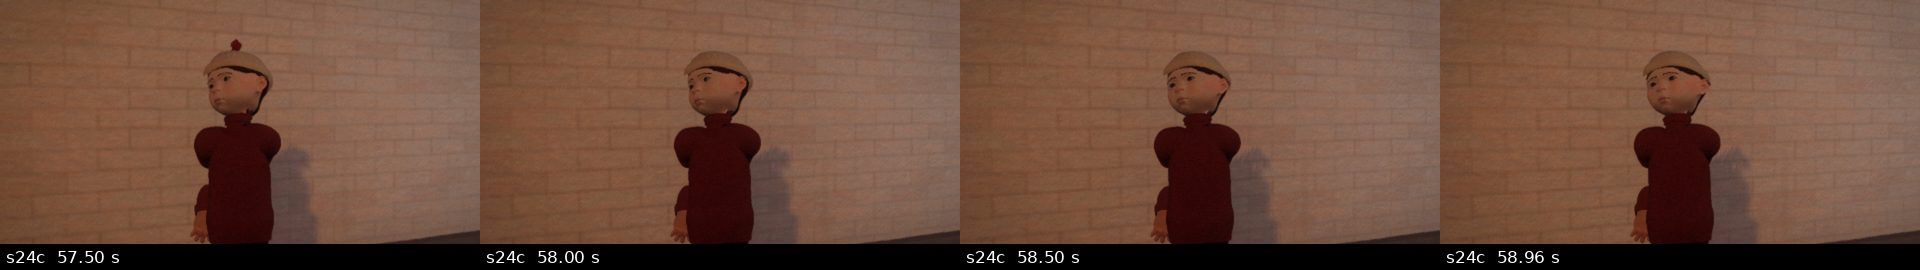
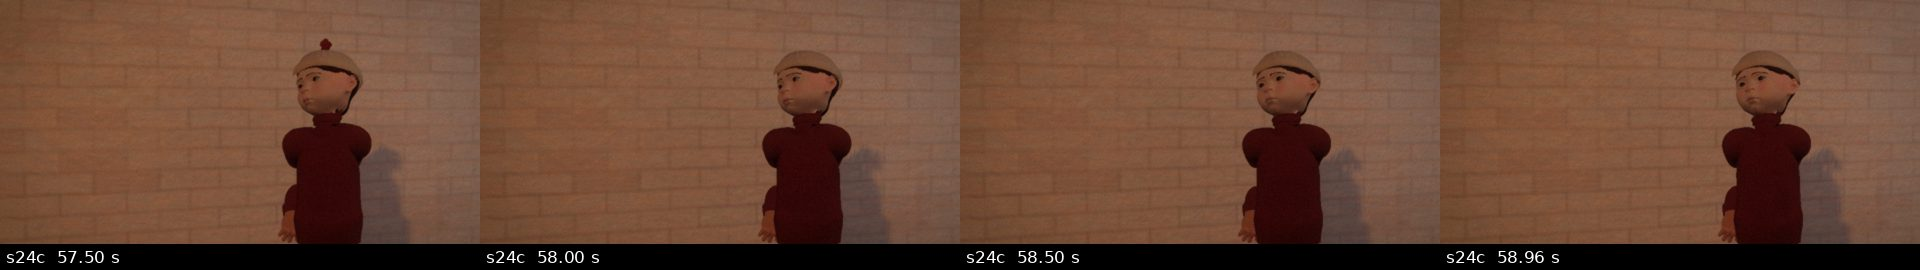
W1-v2: báo cáo BAO-CAO-W1-V2, continuity s24c máy
Claude-Session: https://claude.ai/code/session_013vfSagBSEu3FHp4au7vwuU

diff --git a/reports/m2/cong6/w1/BAO-CAO-W1-V2.md b/reports/m2/cong6/w1/BAO-CAO-W1-V2.md
@@ -1,0 +1,60 @@
+# BÁO CÁO W1-v2 — Cổng 6, sửa sau kiểm vòng 1 (layout v20), phương án A
+
+Phiên xưởng W1 · nhánh `cong6-w1-v2` (từ `387a7fa` của P) · 30/09/2026 · căn cứ: lệnh W1-v2 của P (chủ dự án duyệt, AUTHORSHIP "Cổng 6 — diễn hoạt") + bổ sung C3 lượt Cas.
+Đã sửa: `design/cong5/layout/shots_w1.js`; **mã dùng chung theo lệnh (Đ1, Đ2):** `design/cong3/v2/char3d/cast3d.js` (thêm `ch.gripAt`), `design/cong5/layout/common.js` (`watchInHand` tuỳ chọn `grip`), `design/cong5/layout/shots_w2.js` (CHỈ đổi thân hàm `gripAt` thành lời gọi `ch.gripAt`); `shots/layout/continuity/canh-3.md`, `canh-4.md`; `reports/m2/cong6/w1/sua-v2/`.
+Không sửa: `bible/`, `checks/` (không đọc mã), tài sản khoá, `sets*.js`, `order_w1.js`. Không chạy kiểm mù / luật. Thời lượng shot và tổng phim (140,5 s) không đổi.
+
+## 1. Bảng việc a–k
+| Mục | Trạng thái | Làm gì · số đo |
+|---|---|---|
+| **a** s05 bàn tay vỡ hình 0–2,5 s; "cánh tay lạ mép phải" | **Đã sửa (gốc: tư thế + góc máy)** | Gốc: sheet `warm_hands_ladder` xoè ngón 0,9 / gập 0 — với tay MPFB, lòng tay nhìn NGHIÊNG từ máy cũ (lệch ~49°) thành các ngón nhọn tách rời "vuốt/sừng"; vệt đỏ loang là bóng khung lồng đèn trên lòng tay nhìn nghiêng. Không phải IK (s05 không IK tới 2,6 s) hay trọng số da. Sửa: lòng tay khép nhẹ (xoè 0,3, gập 0,3 — `S05.hands`, cũng dùng cho s24) + máy mới (mục h) thấy MU bàn tay phải trước thân cột; tay trái khuất sau cột/lồng → hết "tay lạ" ở mép phải. |
+| **b** s06 xuyên mặt đồng hồ; ngón gõ kính (CHẶN L3) | **Đã sửa** | Máy insert KHOÁ ở tư thế 2,3 s khi bà cất đồng hồ (v1 bám đồng hồ → đầu/tai lọt giữa máy và mặt số ở 2,5 s). Gõ kính: đồng hồ đưa vào giữa ngực (vai phải [−40, 0, 10], khuỷu −104 — trước: tay trái hụt 10 cm, đo IK) rồi lòng tay trái IK tới cạnh đồng hồ phía vai trái, ngón duỗi; đỉnh chạm **đúng 16,80 / 17,20 s** (gauss 0,06 s): lòng tay cách mặt kính 1,2 cm, đầu ngón chạm vòng số 12 (probe khung 16,79 và 17,21 s: thấy ngón + móng chạm mặt kính; 17,00 s ngón nhấc khỏi khung. Bảng `s06_sau` lấy mỗi 0,5 s nên không trùng đỉnh gõ). |
+| **c** s13 xuyên cột; s15 thang nhảy + xuống từng bậc; s03 tốc độ leo | **Đã sửa** | s13: cúi nhìn đá lát với cổ 18°/quay −14° + thân 10° (v1 cúi thẳng 30° → mũ/mặt lẫn vào thân cột), tay trái giữ nhánh thanh móc cả shot (v1 chuyển về thân cột → cẳng tay quét qua cột). s15: bắt đầu giữa thang (u 0,55), xuống **3 bậc từng nhịp** 0–0,9 s (v1: 1,55 m trong 0,8 s đều); chạm đất lùi một bước 0,9–1,3 s; **nhấc thang 0,95–1,3 s** nội suy vị trí/hướng từ chỗ tựa cột lên vai, tay phải nắm thanh (v1: nhảy 1 khung 1070 → 1071). s03: leo **2 bậc từng nhịp**, 0,37 m / 0,55 s (v1: 0,70 m / 0,55 s). |
+| **d** L1: máy s22 cùng phía s21 | **Đã sửa** | s21 máy ở phía −x trước mặt bà; s22 v1 lệch +45° (phía +x). Nay lệch **−62°** (phía −x), lia trái 4° đẩy thân cột ra mép phải. Góc mặt so với trục máy đo mỗi 6 khung: **54,2–59,1°** (> 30°). |
+| **e** L2 mẩu tay góc dưới-trái s22 | **Đã sửa** | Ở máy mới tay phải trên van nằm ngoài khung (bảng `s22_sau`, 7 khung: không còn mẩu tay). |
+| **f** s24 nhịp đếm ba đọc được (CHẶN L4) | **Đã sửa** | Máy s24 nhìn trước mặt bà → áp tay tới kính là chuyển động DỌC trục máy (v1 ≤ 3 px; thử đẩy tay tới trước: vẫn không thấy). Nay mỗi nhịp hai lòng tay **dang ra hai bên (vai dạng ±24°) rồi khép áp vào hai mặt kính** — chuyển động ngang khung. Đo chiếu tâm lòng tay lên khung 960×540 (mỗi khung): tay trái dịch **30,9 px** ngang / 7,4 px dọc, tay phải **21,2 px** / 7,9 px. |
+| **g** s24c dựa tường đọc được, hết "ma-nơ-canh" + C3 Cas | **Đã sửa** | Lưng + vai tựa tường (cách mặt tường 0,16 m, ngả 6°), đầu ngả tựa (cổ −9°, nghiêng 5°), gối phải co, **hai lòng tay áp tường sau hông** (IK, −3 mm tới mặt tường), dồn chân trái, thở, **chớp 57,62 / 58,62 s**, mắt dẫn trước đầu khi quay về Ida; máy lia 9° cho khoảng trống phía cậu nhìn. Cùng tư thế ở s23, s24. **C3 Cas s24c** (tư thế MỚI, `export_c3 --who cas`, khung 1380/1392/1404): cánh tay trên `foreshorten` 0,573–0,579, hidden 0 — co ngắn THẬT (tay vòng ra sau lưng); chồng mặt nạ: không lún vào thân áo/tường, chỉ vai áo phồng (sai lệch đã chấp nhận) → ghi số, không chỉnh. |
+| **h** Mặt Ida cỡ cận s05, s22 bằng dàn dựng như PA1; 1 khung s22 1080 | **Đã làm** | s05: máy nghiêng **80°** khỏi hướng mặt, 85 mm, 2,1 m, lia/ngóc nhẹ: ngọn L4 + lồng kính TRONG khung là đèn chính trước mũi, nửa mặt phía máy chìm, mắt nhìn xuống ngọn lửa, mí che bớt (lidDrop 0,22), glint 0,45 → 0,2; khẩu hình L1 biên độ 0,62, "old" bớt chu môi (kiểm mù: "méo 1,0–1,5 s"). s22: giữ **MCU 85 mm** (không cần nới MS), 3/4 ≈ 55–59°, lidDrop 0,3, glint 0,35 → 0,2, khẩu hình L2 0,6 → **0,85** (kiểm mù: "miệng hầu như không đổi hình"), môi–má–cằm (richLip). **Không có key đèn khí ở s22** trước khung cuối (L10 bắt lửa 52,45 s; ánh điện phẳng — luật thế giới) → không tạo nguồn giả. Khung 1920×1080: `sua-v2/s22_1920x1080_49.79s.jpg` (mí dưới có viền hồng mảnh — chủ dự án chấm viền nước). |
+| **i** Đ1 gripAt vào cast3d; Đ2 watchInHand theo gripPoint; Đ3 sào mồi | **Đ1, Đ2 đã làm; Đ3 đề xuất §4** | Đ1: `ch.gripAt(s, g)` trong `cast3d.js` = đúng thuật toán `gripAt` của W2 (+ `g.zFix` chỉ khi có); `shots_w2.js`, `shots_w1.js` thay thân hàm bằng `return ch.gripAt(s, g)` (không đổi tham số). Đ2: `watchInHand(scene, { grip: true, lift })` đặt theo `ch.gripPoint('R')`; **mặc định giữ cách cũ** để s45/s46/s45c (W2 đã duyệt) không đổi — W2 bật `grip` cần duyệt riêng. W1 s09w dùng bản chung (bỏ `watchInPalm`), 0 px. |
+| **j** Không sửa s30, s14, nối s24c → s25; L5 → Cổng 7 | **Giữ** | — |
+| **k** continuity canh-3, canh-4 số cũ | **Đã sửa** | canh-4: mục "Cập nhật hiện trạng" (cột điện tường chim không trong khung cảnh 3–4, nguồn vỉa hè nam (17,4; 6,2; 4,1); Cas s23–s24c dựa tường 0,16 m; đổi chỗ 0,75 m qua cắt đã duyệt); canh-3: chỗ Cas, tư thế, máy s24c, bảng trạng thái cuối. |
+
+**C3 lượt Ida (luật v20):** kiểm `views` + chồng mặt nạ (`sua-v2/c3_kiem_s19-1128_s23-1308_s24c-1392.jpg`):
+- s19 khung 1128, cánh tay trên trái −37,7 %: `foreshorten` 0,9965, hidden 0; tư thế `warmLadder` như Cổng 5 (s19 không IK sau 1,0 s). Mặt nạ không lún/xuyên — phần vai bị cổ áo/khăn che làm đoạn tay thấy ngắn. **Ghi số, không chỉnh.**
+- s23 khung 1308, cẳng tay +45,8 %: `foreshorten` 1,003; Ida cách máy ≈ 12 m, mặt nạ cẳng tay **29 px** (cánh tay 27 px) — sai số đo ở cỡ quá nhỏ; không thấy kéo/xuyên. **Ghi số, không chỉnh.**
+
+## 2. Lệch 0 px toàn phim (Đ1/Đ2 đụng mã dùng chung)
+Gốc tạo TRƯỚC mọi sửa (`/var/tmp/cine-out/W1/lech0v2/goc`, 53 shot, 159 ảnh, từ `387a7fa`); so sau khi sửa (`…/lech0v2/sau`, mã `56b834a`): **159 ảnh; lệch 25 — đúng 25 ảnh của 9 shot W1 cố ý đổi** (s03, s05, s06, s13, s15, s22, s23, s24, s24c). **30 shot W2: 0 px.** s09w (Đ2) và 10 shot W1 có IK không đổi (s02, s04, s07, s08, s11, s12, s14, s19, s21 + s01, s09, s10e, s10): **0 px** → `ch.gripAt` trùng từng bit với bản sao cũ. Lượt sửa sau so (s24c lia 9°) chỉ đổi s24c.
+
+## 3. Render, mp4 hiện hành
+| Nhãn | Shot | Khung | Chạy (s) |
+|---|---|---|---|
+| v2-render | s03, s05, s06, s13, s15, s22, s23, s24, s24c | 528 | 2 596,7 |
+| v2-s24c (lia 9°) | s24c | 36 | 353,2 |
+| v2-s22-1080 | 1 khung s22 1920×1080 | 1 | 17,1 |
+**MP4 hiện hành theo shot** (`/var/tmp/cine-out/W1/`, 960×540, có `timing_*.json`):
+| Shot | MP4 |
+|---|---|
+| s03, s05, s06, s13, s15, s22, s23, s24 | `video_s03-s05-s06-s13-s15-s22-s23-s24-s24c.mp4` (s24c trong tệp này là bản cũ) |
+| s24c | `video_s24c.mp4` |
+| s02, s04, s07, s08 | `video_s02-s03-s04-s05-s06-s07-s08.mp4` (v1; s03, s05, s06 trong tệp là bản cũ) |
+| s09w, s11, s12 | `video_s09w-s11-s12-s13-s14.mp4` (v1; s13, s14 trong tệp là bản cũ) |
+| s14 | `video_s14.mp4` (v1) |
+| s19, s21 | `video_s15-s19-s21-s22-s23-s24-s24c.mp4` (v1; các shot khác trong tệp là bản cũ) |
+| s01, s09, s10e, s10 | bản Cổng 5 (P giữ) |
+| W2 | không shot nào đổi (0 px) → giữ mp4 W2 hiện hành |
+Bảng khung 0,5 s trước/sau: `reports/m2/cong6/w1/sua-v2/<shot>_truoc.jpg`, `_sau.jpg` cho 9 shot (trước = mp4 v1).
+
+## 4. Đề xuất Đ3 (sheet đạo cụ trong `bible/` — P trình chủ dự án, W1 không sửa)
+> **Sào mồi — chỗ để khi đi/chạy:** sào (6 H) móc dọc thanh thang trái bằng hai khuyên da ở 1/3 và 2/3 chiều dài thang, đầu có bấc hướng lên trên (cao hơn đầu thang 0,4 m, không chạm vai). Khi trèo, sào ở lại trên thang; bà gỡ sào bằng tay phải ở bậc trên cùng trước khi mồi (s21). Đèn lồng thắt lưng giữ ở hông trái như sheet.
+Ưu: giải chỗ hở continuity cảnh 1–3 (sào chỉ thấy ở s21). Nhược: thêm một vật trên thang ở mọi shot đi (s02, s07, s08, s15, s23) → render lại 5 shot, hình thang trên vai rậm hơn ở tele s08. Rủi ro: sheet đạo cụ khoá — cần chủ dự án duyệt trước khi W1 dựng.
+
+## 5. Rủi ro còn lại
+- s22 không có key đèn khí (L10 chưa cháy tới khung cuối) — mặt vẫn dưới ánh điện phẳng; nếu kiểm mù vẫn chê "búp bê sáp" ở s22 thì cần quyết của chủ dự án (đổi cỡ MS hoặc để Cổng 7 xử lý chất liệu da).
+- s24c: hai tay vòng ra sau lưng — ít thấy tay; vai áo phồng khi tay vòng sau (sai lệch đã chấp nhận của Cas) rõ hơn một chút.
+- s06: khung cuối (2,5–3,0 s) máy khoá → đồng hồ rời khung, còn tay áo + kính lồng đèn (tối).
+- s05 góc gần nghiêng hẳn: khẩu hình L1 đọc qua môi–cằm ở nghiêng, ít thấy miệng hơn v1.
+
+## 6. Token, thời gian
+- Thời gian thật: 13:42 → ≈ 15:45 UTC 30/09/2026 (≈ 2,1 giờ; render + dò lệch ≈ 1,6 giờ).
+- Token lượt W1-v2: bộ đếm công cụ ≈ 135 nghìn (hạn 400 nghìn).

diff --git a/shots/layout/continuity/canh-3.md b/shots/layout/continuity/canh-3.md
@@ -101,7 +101,7 @@ Không đổi thời lượng, mốc sự kiện, trạng thái đèn. Đổi:
   - đầu quay từ −10° (0,6 s) sang +6° (1,3 s), nhìn về Ida / L11 — **sang TRÁI khung**;
   - tay giấu trong tay áo.
 - **Ida:** trên thang L11, tư thế hơ tay (`warmLadder`), ngoài khung (sau máy, bên trái). **Không có bóng của bà hay thang trong khung.**
-- **Máy (A2):** 3/4 trước Cas, lệch −35° khỏi hướng nhìn của cậu về L11, cách 2,1 m (W1-v2: tính theo chỗ dựa tường (14,3; −7,94)) nhìn (14,3; 0,95; −7,94), 50 mm.
+- **Máy (A2; W1-v2 lia thêm 9° để Cas lệch phải, khoảng trống phía cậu nhìn):** 3/4 trước Cas, lệch −35° khỏi hướng nhìn của cậu về L11, cách 2,1 m (W1-v2: tính theo chỗ dựa tường (14,3; −7,94)) nhìn (14,3; 0,95; −7,94), 50 mm.
 
 ## TRẠNG THÁI Ở KHUNG CUỐI s24c (0:59,00) → nối s25 (W2, cảnh 4)
 | Mục | Trạng thái |
